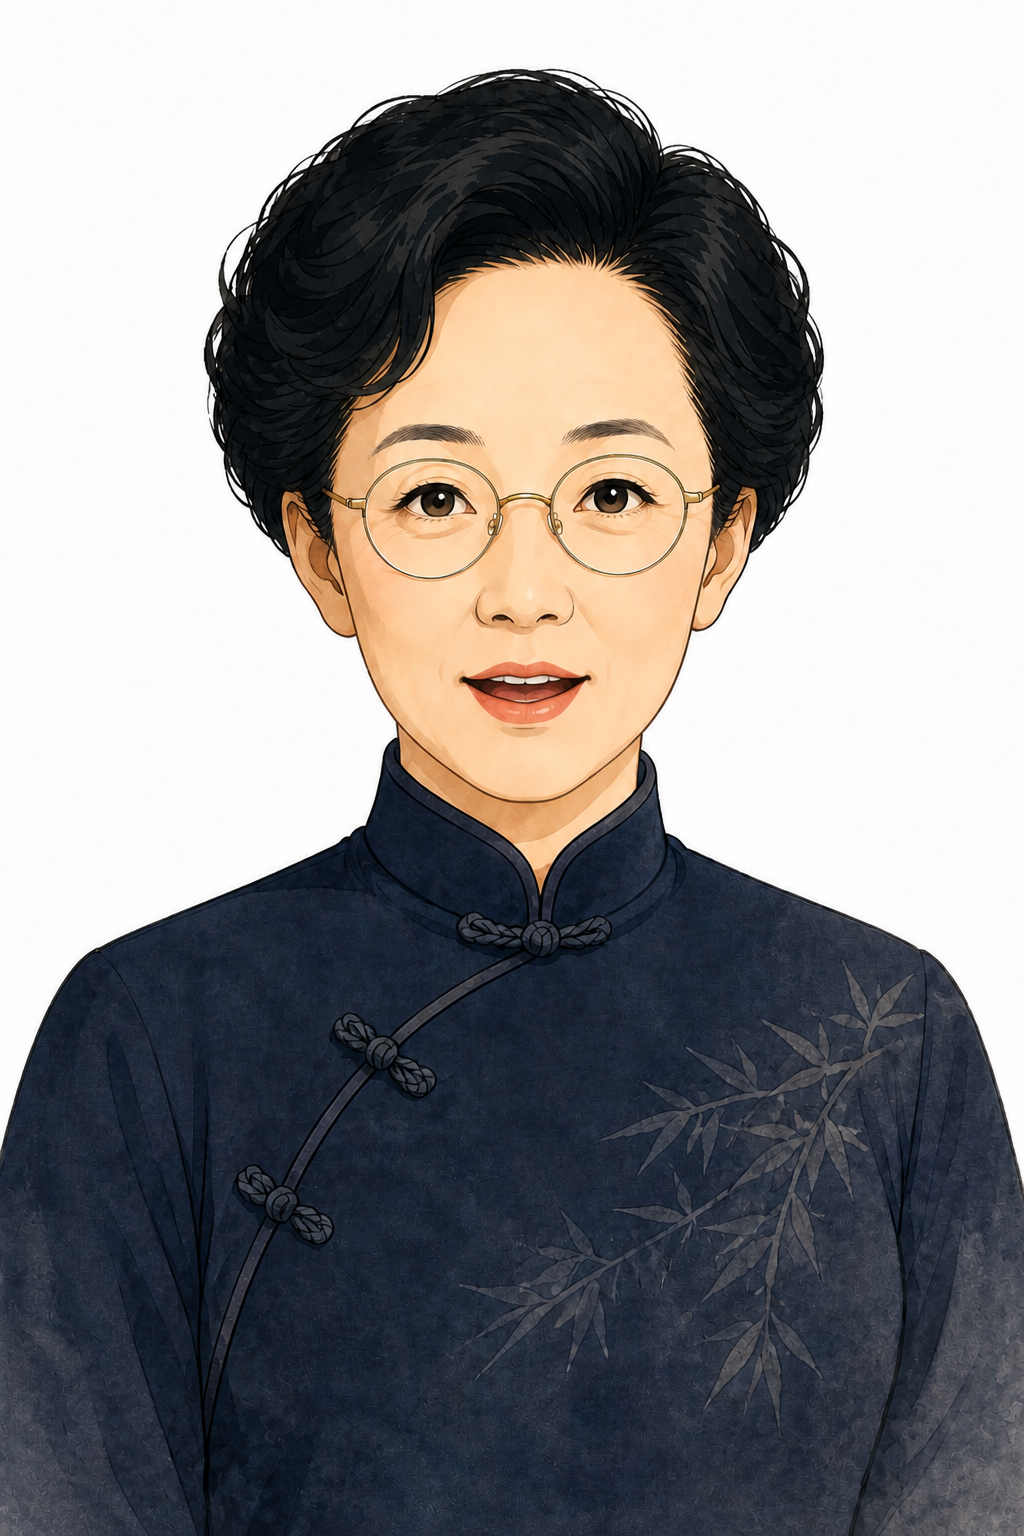
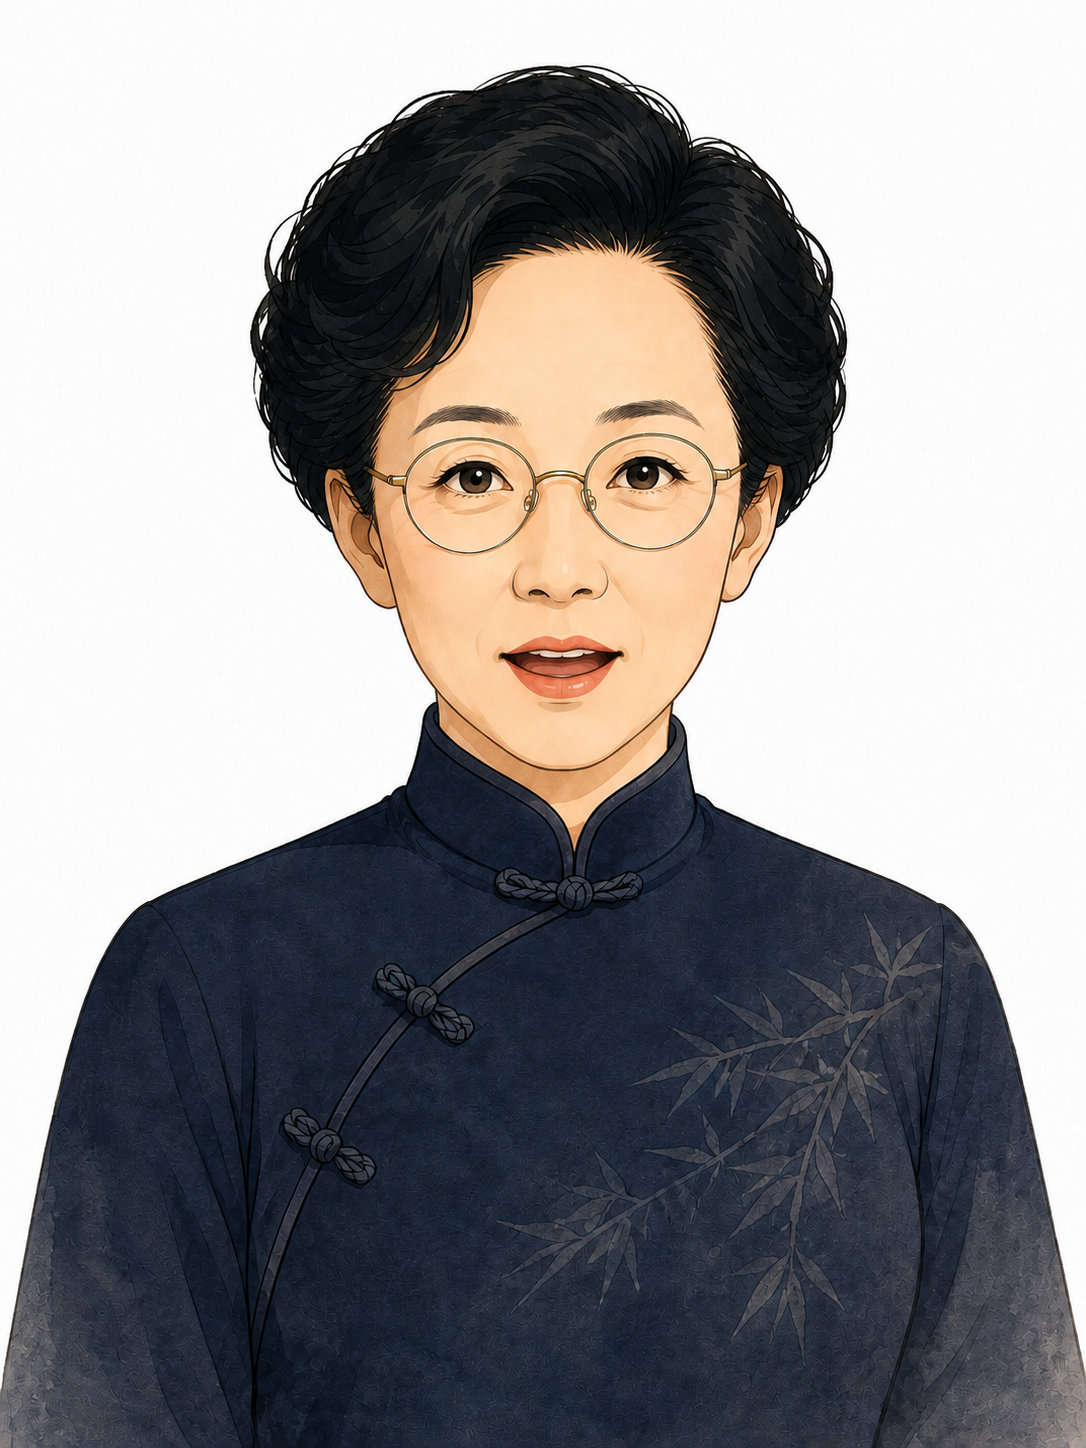
优化数字人

Changed region(s): [[0.0, 0.0311, 1.0, 1.0], [0.125, 0.8391, 0.1562, 0.8702]]

diff --git a/components/digital-human/digital-human.js b/components/digital-human/digital-human.js
@@ -1,10 +1,6 @@
 Component({
   properties: {
     size: { type: Number, value: 300 },
-    mouthTopRatio: { type: Number, value: 0.375 },
-    mouthLeftRatio: { type: Number, value: 0.40 },
-    mouthWidthRatio: { type: Number, value: 0.20 },
-    mouthHeightRatio: { type: Number, value: 0.10 },
     speaking: { type: Boolean, value: false },
     audioUrl: { type: String, value: '' }
   },
@@ -17,8 +13,9 @@ Component({
       '/assets/images/wu_mouth_3.png',
       '/assets/images/wu_mouth_4.png'
     ],
-    mouthSrc: '/assets/images/wu_base.png',
+    mouthIndex: -1,
     isSpeaking: false,
+    // 嘴巴位置（由 attached 根据 size 自动计算）
     mouthTop: 0,
     mouthLeft: 0,
     mouthWidth: 0,
@@ -32,14 +29,15 @@ Component({
   },
 
   methods: {
+    // 计算嘴巴位置（最终确认版锚点）
     _calcMouthPos() {
-      const { size, mouthTopRatio, mouthLeftRatio, mouthWidthRatio, mouthHeightRatio } = this.properties;
+      const size = this.properties.size;
       const height = Math.round(size * 1.33);
       this.setData({
-        mouthTop: Math.round(height * mouthTopRatio),
-        mouthLeft: Math.round(size * mouthLeftRatio),
-        mouthWidth: Math.round(size * mouthWidthRatio),
-        mouthHeight: Math.round(height * mouthHeightRatio)
+        mouthTop: Math.round(height * 0.405),
+        mouthLeft: Math.round(size * 0.425),
+        mouthWidth: Math.round(size * 0.18),
+        mouthHeight: Math.round(height * 0.08)
       });
     },
 
@@ -50,24 +48,25 @@ Component({
       audio.src = url;
 
       let lipTimer;
+
       audio.onPlay(() => {
-        this.setData({ isSpeaking: true });
+        this.setData({ isSpeaking: true, mouthIndex: 0 });
+        
         lipTimer = setInterval(() => {
           const idx = Math.floor(Math.random() * 4);
-          this.setData({ mouthSrc: this.data.mouthList[idx] });
+          this.setData({ mouthIndex: idx });
         }, 150);
       });
 
       audio.onEnded(() => {
         clearInterval(lipTimer);
-        this.setData({ isSpeaking: false, mouthSrc: this.data.baseSrc });
+        this.setData({ isSpeaking: false, mouthIndex: -1 });
         audio.destroy();
-        this.triggerEvent('speakEnd');
       });
 
       audio.onError(() => {
         clearInterval(lipTimer);
-        this.setData({ isSpeaking: false, mouthSrc: this.data.baseSrc });
+        this.setData({ isSpeaking: false, mouthIndex: -1 });
         audio.destroy();
       });
 
@@ -80,14 +79,12 @@ Component({
         this.audioCtx.destroy();
         this.audioCtx = null;
       }
-      this.setData({ isSpeaking: false, mouthSrc: this.data.baseSrc });
+      this.setData({ isSpeaking: false, mouthIndex: -1 });
     },
 
-    // 暴露给外部调用的方法：传文字，自动走 AI+TTS+播放
     speak(text) {
       this._stopSpeaking();
-      this.setData({ isSpeaking: true });
-
+      
       wx.cloud.callFunction({
         name: 'chat',
         data: { message: text }
@@ -101,7 +98,7 @@ Component({
           this._playAudio(ttsRes.result.url);
         });
       }).catch(err => {
-        this.setData({ isSpeaking: false });
+        this.setData({ isSpeaking: false, mouthIndex: -1 });
         this.triggerEvent('error', { err });
       });
     }
